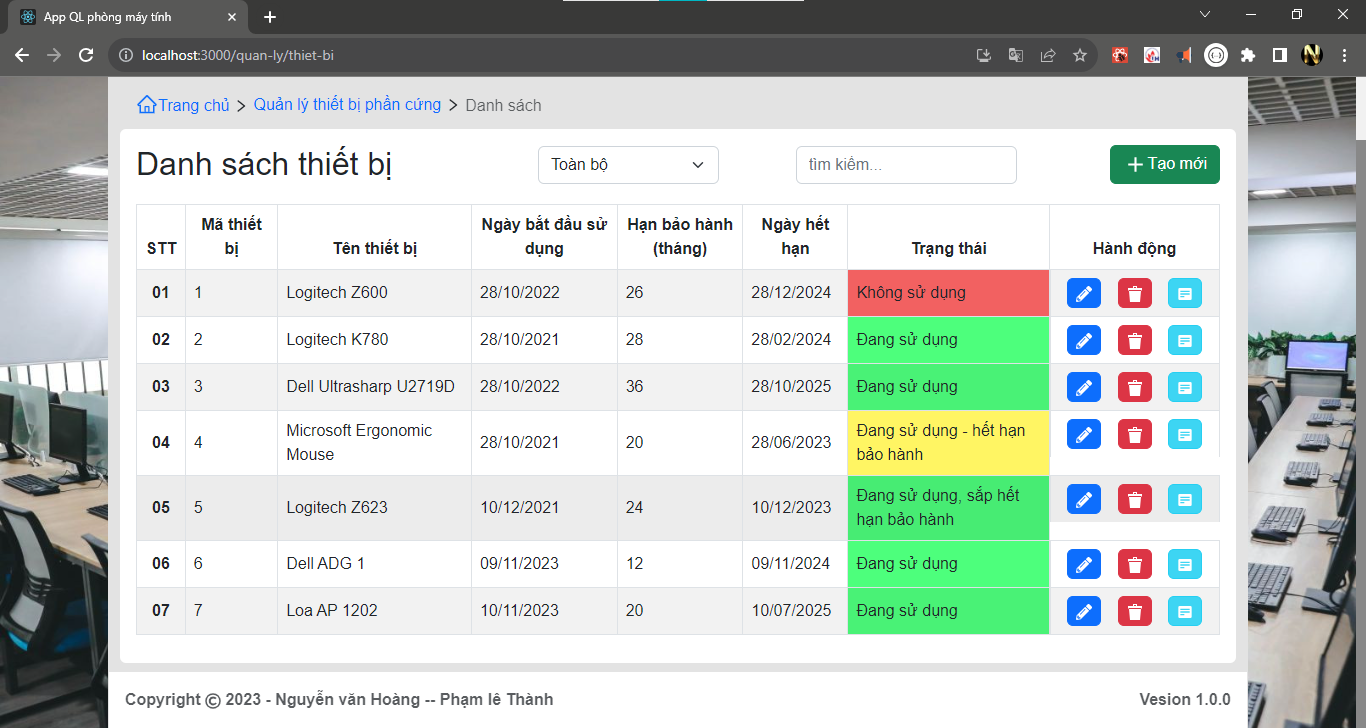
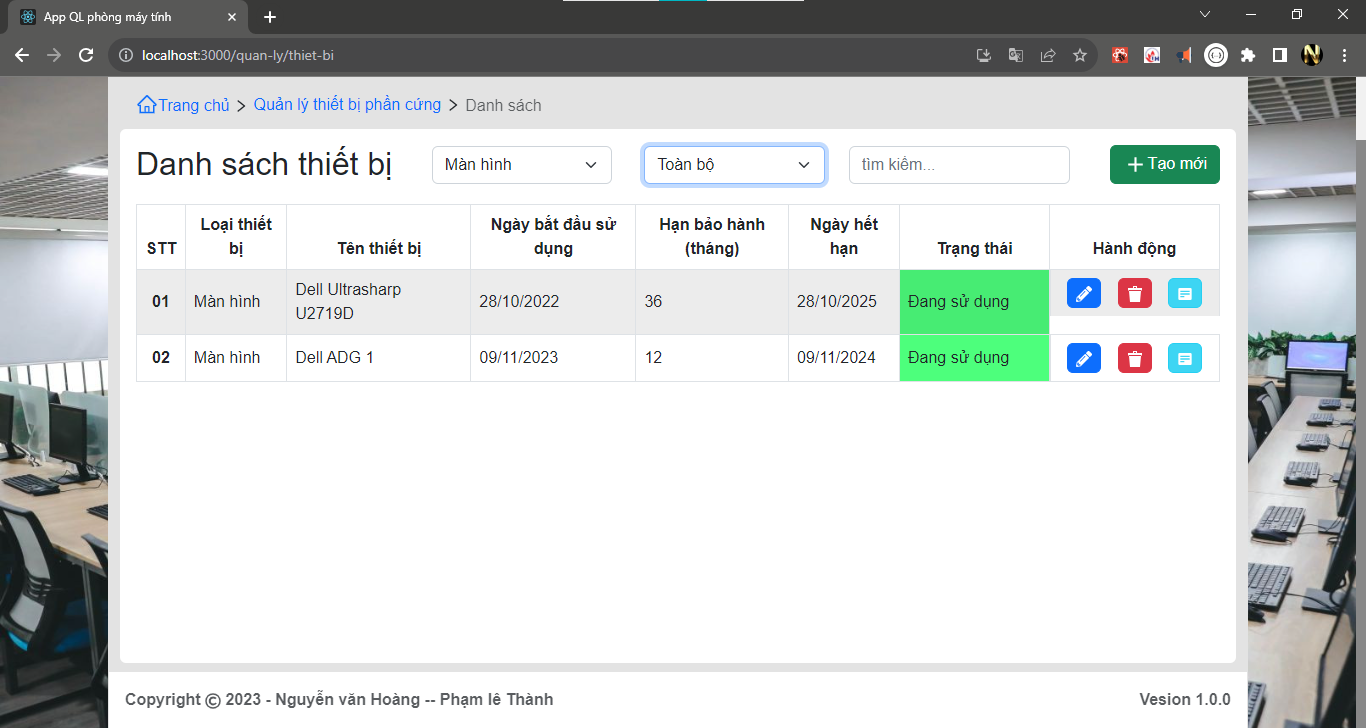
QLThietBi: add search select - LoaiTbi

diff --git a/src/pages/PageQuanLy/PageQLThietBi.jsx b/src/pages/PageQuanLy/PageQLThietBi.jsx
@@ -10,8 +10,10 @@ import NavTab from "../../components/common/NavTab/NavTab";
 import { NavLink } from "react-router-dom";
 import { useDispatch, useSelector } from "react-redux";
 import {
+  getAllLoaiThietBiApi,
   getAllThietBiApi,
   setValueSelectActionTBi,
+  setValueSelectLoaiTbiAction,
   setValueTxtSearchAction,
 } from "../../redux/reducers/thietBiReducer";
 import { formatStringDate } from "../../util/config";
@@ -19,17 +21,33 @@ import { formatStringDate } from "../../util/config";
 export default function PageQLThietBi() {
   const dispatch = useDispatch();
 
-  let { arrThietBi, arrThietBiSearch, valueTxtSearch, valueSelect } =
-    useSelector((state) => state.thietBiReducer);
+  let {
+    arrThietBi,
+    arrThietBiSearch,
+    valueTxtSearch,
+    arrLoaiTBi,
+    valueSelect,
+    valueSelectLoaiTBi,
+  } = useSelector((state) => state.thietBiReducer);
 
   useEffect(() => {
     if (arrThietBi.length === 0) {
       const action = getAllThietBiApi;
       dispatch(action);
     }
+    //
+    if (arrLoaiTBi.length === 0) {
+      dispatch(getAllLoaiThietBiApi);
+    }
+    //
   }, []);
 
   // handle
+  //
+  const handleChangeLoaiTbi =(e) => {
+    dispatch(setValueSelectLoaiTbiAction(e.target.value))
+  }
+  //
   const handleChangeSearch = (e) => {
     dispatch(setValueTxtSearchAction(e.target.value.trim()));
   };
@@ -37,6 +55,24 @@ export default function PageQLThietBi() {
     dispatch(setValueSelectActionTBi(e.target.value.trim()));
   };
   //render
+  //
+  const renderLoaithietBi = () => {
+    return arrLoaiTBi?.map((item, index) => {
+      if (item.maLoai == valueSelectLoaiTBi) {
+        return (
+          <option key={index} selected value={item.maLoai}>
+            {item.tenLoai}
+          </option>
+        );
+      }
+      return (
+        <option key={index} value={item.maLoai}>
+          {item.tenLoai}
+        </option>
+      );
+    });
+  };
+  //
   const renderDataThietBi = () => {
     return arrThietBiSearch?.map((item, index) => {
       let ngaySD = new Date(item?.ngayCaiDat);
@@ -75,7 +111,7 @@ export default function PageQLThietBi() {
           <td scope="row" style={{ fontWeight: 600, padding: "0 15px" }}>
             {index < 9 ? `0${index + 1}` : index + 1}
           </td>
-          <td>{item?.maThietBi}</td>
+          <td>{item?.loaiThietBi.tenLoai}</td>
           <td>{item?.tenThietBi}</td>
           <td>{formatStringDate(ngaySD)}</td>
           <td>{item?.tuoiTho}</td>
@@ -131,10 +167,18 @@ export default function PageQLThietBi() {
           <option selected={valueSelect == -1 ? 1 : 0} value="-1">
             Toàn bộ
           </option>
-          <option selected={valueSelect == 1 ? 1 : 0} value="1">Không sử dụng</option>
-          <option selected={valueSelect == 2 ? 1 : 0} value="2">Đang sử dụng</option>
-          <option selected={valueSelect == 3 ? 1 : 0} value="3">Hết hạn</option>
-          <option selected={valueSelect == 4 ? 1 : 0} value="4">Sắp hết hạn</option>
+          <option selected={valueSelect == 1 ? 1 : 0} value="1">
+            Không sử dụng
+          </option>
+          <option selected={valueSelect == 2 ? 1 : 0} value="2">
+            Đang sử dụng
+          </option>
+          <option selected={valueSelect == 3 ? 1 : 0} value="3">
+            Hết hạn
+          </option>
+          <option selected={valueSelect == 4 ? 1 : 0} value="4">
+            Sắp hết hạn
+          </option>
         </select>
       </div>
     );
@@ -168,6 +212,15 @@ export default function PageQLThietBi() {
               <div></div>
 
               {/* select - option */}
+              <div className=" col-2 m-2 ">
+                <select
+                  className="form-select "
+                  onChange={handleChangeLoaiTbi}
+                >
+                  <option value="-1">Toàn bộ</option>
+                  {renderLoaithietBi()}
+                </select>
+              </div>
               {renderSelectTrangThai()}
 
               {/* input tim kiem */}
@@ -200,7 +253,7 @@ export default function PageQLThietBi() {
                 <thead>
                   <tr>
                     <th>STT</th>
-                    <th style={{ minWidth: "90px" }}>Mã thiết bị</th>
+                    <th style={{ minWidth: "90px" }}>Loại thiết bị</th>
                     <th style={{ minWidth: "180px" }}>Tên thiết bị</th>
                     <th style={{ minWidth: "120px" }}>Ngày bắt đầu sử dụng</th>
                     <th style={{ minWidth: "90px" }}>Hạn bảo hành (tháng)</th>

diff --git a/src/redux/reducers/thietBiReducer.jsx b/src/redux/reducers/thietBiReducer.jsx
@@ -7,7 +7,7 @@ import { history } from "../..";
 
 //function
 
-const searchData = (arrData, valSearch, valSelect) => {
+const searchData = (arrData, valSearch, valSelect, valSelect2) => {
   let textSearch = valSearch.toLowerCase();
   let arrUpdate = [];
   // search - text
@@ -59,6 +59,26 @@ const searchData = (arrData, valSearch, valSelect) => {
       return day2 < day && ngayKT > day;
     });
   }
+
+  //
+  if (valSelect2 != -1) {
+    arrUpdate = arrUpdate.filter(
+      (item) => item.loaiThietBi.maLoai == valSelect2
+    );
+  }
+
+  return [...arrUpdate];
+};
+// sort
+const sortData_LoaiThietBi = (arrData) => {
+  let arrUpdate = arrData.sort((a, b) =>
+    a.loaiThietBi.tenLoai > b.loaiThietBi.tenLoai
+      ? 1
+      : b.loaiThietBi.tenLoai > a.loaiThietBi.tenLoai
+      ? -1
+      : 0
+  );
+
   return [...arrUpdate];
 };
 
@@ -69,6 +89,7 @@ const initialState = {
   detailValue: {},
   valueTxtSearch: "",
   valueSelect: "-1",
+  valueSelectLoaiTBi: "-1",
 };
 
 const thietBiReducer = createSlice({
@@ -76,9 +97,10 @@ const thietBiReducer = createSlice({
   initialState,
   reducers: {
     setArrThietBiAction: (state, action) => {
-      state.arrThietBi = action.payload;
+      let arrdata = sortData_LoaiThietBi(action.payload);
+      state.arrThietBi = arrdata;
 
-      state.arrThietBiSearch = action.payload;
+      state.arrThietBiSearch = arrdata;
       state.valueSelect = "-1";
       state.valueTxtSearch = "";
     },
@@ -88,22 +110,36 @@ const thietBiReducer = createSlice({
     setValueTxtSearchAction: (state, action) => {
       state.valueTxtSearch = action.payload;
 
-      let { valueSelect, arrThietBi } = state;
+      let { valueSelect, arrThietBi, valueSelectLoaiTBi } = state;
 
       state.arrThietBiSearch = searchData(
         arrThietBi,
         action.payload,
-        valueSelect
+        valueSelect,
+        valueSelectLoaiTBi
       );
     },
     setValueSelectActionTBi: (state, action) => {
       state.valueSelect = action.payload;
 
-      let { valueTxtSearch, arrThietBi } = state;
+      let { valueTxtSearch, arrThietBi, valueSelectLoaiTBi } = state;
 
       state.arrThietBiSearch = searchData(
         arrThietBi,
         valueTxtSearch,
+        action.payload,
+        valueSelectLoaiTBi
+      );
+    },
+    setValueSelectLoaiTbiAction: (state, action) => {
+      state.valueSelectLoaiTBi = action.payload;
+
+      let { valueTxtSearch, arrThietBi, valueSelect } = state;
+
+      state.arrThietBiSearch = searchData(
+        arrThietBi,
+        valueTxtSearch,
+        valueSelect,
         action.payload
       );
     },
@@ -111,13 +147,16 @@ const thietBiReducer = createSlice({
       let thietbi = action.payload;
       state.arrThietBi.push(thietbi);
 
+      let arrdata = sortData_LoaiThietBi(state.arrThietBi);
+      state.arrThietBi = arrdata;
       //
-      let { valueTxtSearch, arrThietBi, valSelect } = state;
+      let { valueTxtSearch, arrThietBi, valSelect, valueSelectLoaiTBi } = state;
 
       state.arrThietBiSearch = searchData(
         arrThietBi,
         valueTxtSearch,
-        valSelect
+        valSelect,
+        valueSelectLoaiTBi
       );
     },
   },
@@ -128,6 +167,7 @@ export const {
   setArrThietBiAction,
   setValueTxtSearchAction,
   setValueSelectActionTBi,
+  setValueSelectLoaiTbiAction,
   insertThietBiAction,
 } = thietBiReducer.actions;
 export default thietBiReducer.reducer;
